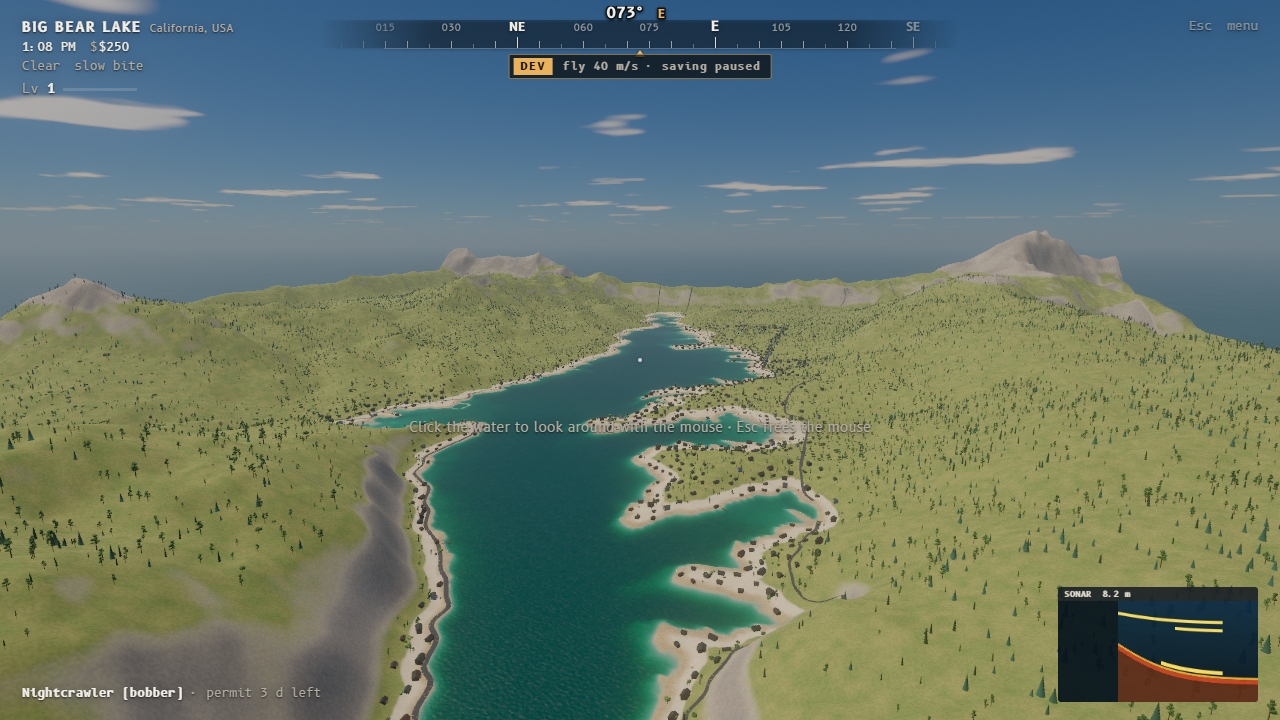
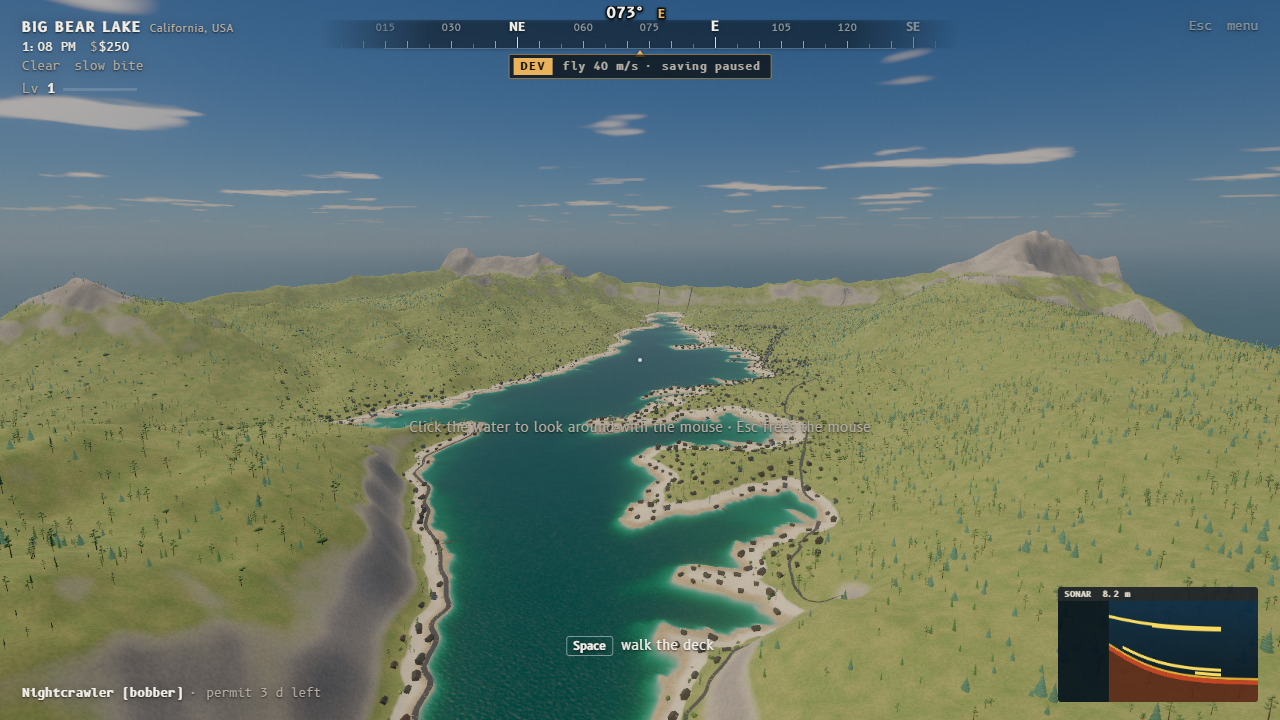
feat(bigbear): richer native trees and shrubs: forked-limb pines, tiered firs, cedars, oaks, junipers, manzanita, sage, yucca, willow

diff --git a/src/game/scenery.js b/src/game/scenery.js
@@ -56,6 +56,41 @@ function blade(bx, bz, ang, h, w, arch, c0, c1, c2, seg = 2) {
   return g.toNonIndexed();
 }
 
+// ---- organic tree parts: ragged skirts, bark and foliage gradients -------------------------------------
+// a drooping conifer tier: open cone, ragged rim that sags, dark inside to light tips
+function tier(r, h, y, rand, cBase, cTip, seg = 9, sag = 0.35) {
+  const g = new THREE.ConeGeometry(r, h, seg, 1, true), p = g.attributes.position, n = p.count, col = new Float32Array(n * 3), cb = new THREE.Color(cBase), ct = new THREE.Color(cTip), c = new THREE.Color();
+  const jit = []; for (let i = 0; i < seg + 1; i++) jit.push(1 + (rand() - 0.5) * 0.42);
+  for (let i = 0; i < n; i++) {
+    let x = p.getX(i), yy = p.getY(i), z = p.getZ(i); const t = Math.min(1, Math.max(0, (yy + h / 2) / h)), a = Math.atan2(z, x), j = jit[Math.floor(((a + Math.PI) / (Math.PI * 2)) * seg) % (seg + 1)];
+    const rim = 1 - Math.min(1, t * 2); x *= 1 + (j - 1) * rim; z *= 1 + (j - 1) * rim; yy -= rim * rim * sag * (0.4 + j * 0.6);
+    p.setXYZ(i, x, yy + y + h / 2, z);
+    c.copy(cb).lerp(ct, Math.pow(t, 0.8)).multiplyScalar(0.88 + rand() * 0.24); col.set([c.r, c.g, c.b], i * 3);
+  }
+  g.setAttribute('color', new THREE.BufferAttribute(col, 3)); g.deleteAttribute('uv'); g.computeVertexNormals();
+  { const q = g.attributes.normal; for (let i = 0; i < q.count; i++) { const nx = q.getX(i) * 0.6, ny = q.getY(i) * 0.6 + 0.55, nz = q.getZ(i) * 0.6, l = Math.hypot(nx, ny, nz) || 1; q.setXYZ(i, nx / l, ny / l, nz / l); } }   // soften: lean the normals up so the underside is not black
+  return g.toNonIndexed();
+}
+// a tapered trunk / limb with a bark gradient (dark at the base), optionally leaned
+function limb(r0, r1, len, rand, c0, c1, lean = [0, 0], base = [0, 0, 0], seg = 6) {
+  const g = new THREE.CylinderGeometry(r1, r0, len, seg, 3).translate(0, len / 2, 0), p = g.attributes.position, col = new Float32Array(p.count * 3), a = new THREE.Color(c0), b = new THREE.Color(c1), c = new THREE.Color();
+  for (let i = 0; i < p.count; i++) { const t = p.getY(i) / len; c.copy(a).lerp(b, t).multiplyScalar(0.85 + rand() * 0.3); col.set([c.r, c.g, c.b], i * 3); }
+  g.setAttribute('color', new THREE.BufferAttribute(col, 3)); g.deleteAttribute('uv');
+  g.rotateZ(lean[0]).rotateX(lean[1]).translate(base[0], base[1], base[2]);
+  return g.index ? g.toNonIndexed() : g;
+}
+// a foliage clump: flattened lumpy blob, dark underside and a lit top
+function clump(r, x, y, z, rand, cLow, cHigh, squash = 0.62, detail = 0) {
+  const g = blob(r, detail, rand, squash).toNonIndexed(), p = g.attributes.position, col = new Float32Array(p.count * 3), nn = new Float32Array(p.count * 3), lo = new THREE.Color(cLow), hi = new THREE.Color(cHigh), c = new THREE.Color();
+  for (let i = 0; i < p.count; i++) {
+    const px = p.getX(i), py = p.getY(i), pz = p.getZ(i), t = Math.min(1, Math.max(0, (py / (r * squash) + 1) / 2));
+    c.copy(lo).lerp(hi, t).multiplyScalar(0.9 + rand() * 0.2); col.set([c.r, c.g, c.b], i * 3);
+    const ny = py / Math.max(squash, 0.3) + r * 0.25, l = Math.hypot(px, ny, pz) || 1; nn[i * 3] = px / l; nn[i * 3 + 1] = ny / l; nn[i * 3 + 2] = pz / l;   // rounded, softly lit volume instead of flat facets
+  }
+  g.setAttribute('color', new THREE.BufferAttribute(col, 3)); g.setAttribute('normal', new THREE.BufferAttribute(nn, 3)); g.deleteAttribute('uv'); g.translate(x, y, z);
+  return g;
+}
+
 const CONIFERS = new Set(['jeffrey', 'whitefir', 'cedar', 'lodgepole']);
 const TREE_BUILDERS = {
   // tall arching water grass (sawgrass / maidencane): a fan of ribbons, olive at the root, green-yellow to tan at the tips
@@ -99,30 +134,6 @@ const TREE_BUILDERS = {
     }
     return mergeGeometries(parts);
   },
-  // San Bernardino Mountains forest (Big Bear): Jeffrey / ponderosa pine, white fir, incense cedar,
-  // lodgepole, quaking aspen, alder and maple by the water, black and canyon live oak
-  jeffrey(rand) {
-    const parts = [paint(new THREE.CylinderGeometry(0.22, 0.4, 12, 6).translate(0, 6, 0), 0x8a5a3c, 0.2, rand)];   // orange-brown plated bark
-    for (let i = 0; i < 6; i++) {
-      const y = 6 + i * 1.1 + rand() * 0.6, a = rand() * Math.PI * 2, r = 0.5 + (6 - i) * 0.18;
-      parts.push(paint(blob(1.3 + rand() * 0.6, 0, rand, 0.7).translate(Math.cos(a) * r, y, Math.sin(a) * r), i % 2 ? 0x41602e : 0x4a6a34, 0.3, rand));   // open tufted crown of long needles
-    }
-    parts.push(paint(blob(1.3, 0, rand, 0.8).translate(0, 12.6, 0), 0x4a6a34, 0.3, rand));
-    return mergeGeometries(parts);
-  },
-  whitefir(rand) {
-    const parts = [paint(new THREE.CylinderGeometry(0.2, 0.34, 3, 6).translate(0, 1.5, 0), 0x6a5a4a)];
-    for (let i = 0; i < 6; i++) {
-      const r = 2.5 - i * 0.37, y = 2.2 + i * 1.7;
-      parts.push(paint(new THREE.ConeGeometry(r, 3.2, 8).translate(0, y, 0), 0x35604e, 0.25, rand));   // dense, blue-green
-    }
-    return mergeGeometries(parts);
-  },
-  cedar(rand) {
-    const parts = [paint(new THREE.CylinderGeometry(0.2, 0.36, 3, 6).translate(0, 1.5, 0), 0x7a4a34)];
-    for (let i = 0; i < 4; i++) parts.push(paint(new THREE.ConeGeometry(1.5 - i * 0.2, 4.4, 7).translate(0, 3 + i * 2.3, 0), 0x2c4a2a, 0.25, rand));   // narrow dark column
-    return mergeGeometries(parts);
-  },
   lodgepole(rand) {
     const parts = [paint(new THREE.CylinderGeometry(0.12, 0.22, 11, 5).translate(0, 5.5, 0), 0x6a5a48)];
     for (let i = 0; i < 4; i++) parts.push(paint(new THREE.ConeGeometry(1.15 - i * 0.18, 2.8, 6).translate(0, 7 + i * 1.7, 0), 0x4c6a34, 0.3, rand));
@@ -138,27 +149,78 @@ const TREE_BUILDERS = {
     for (let i = 0; i < 3; i++) parts.push(paint(blob(2.1, 1, rand, 0.95).translate((rand() - 0.5) * 2, 5.4 + rand() * 1.2, (rand() - 0.5) * 2), i % 2 ? 0x4e7a30 : 0x5d8a34, 0.3, rand));
     return mergeGeometries(parts);
   },
+  // ---- San Bernardino Mountains natives (Big Bear): Jeffrey pine, white fir, incense cedar, black / canyon live oak,
+  // juniper, manzanita, scrub oak chaparral, sagebrush, Mojave yucca, willow -------------------------------------
+  // Jeffrey pine: tall bare plated-orange trunk, a few heavy limbs, open tufts of long blue-green needles
+  jeffrey(rand) {
+    const H = 11 + rand() * 4, parts = [limb(0.42, 0.14, H, rand, 0x5a3a28, 0xa86a3e, [(rand() - 0.5) * 0.06, 0])];
+    const nb = 6;
+    for (let i = 0; i < nb; i++) {
+      const t = i / nb, y = H * (0.5 + t * 0.48), a = rand() * 6.283, len = 1.6 * (1.15 - t * 0.7) + rand() * 0.6, cx = Math.cos(a) * len, cz = Math.sin(a) * len;
+      for (let k = 0; k < 1; k++) parts.push(clump(1.35 - t * 0.35 + rand() * 0.4, cx, y + 0.25 + rand() * 0.5, cz, rand, 0x3a5a3a, 0x7a9a58, 0.5));
+    }
+    parts.push(clump(1.1, 0, H + 0.35, 0, rand, 0x40623e, 0x86a460, 0.9));
+    return mergeGeometries(parts);
+  },
+  // white fir: dense regular tiers of blue-green boughs, ragged skirts, grey bark
+  whitefir(rand) {
+    const parts = [limb(0.3, 0.1, 5, rand, 0x4a4238, 0x6a6258)], n = 9;
+    for (let i = 0; i < n; i++) {
+      const t = i / (n - 1), r = 2.7 * (1 - t) ** 0.9 + 0.35, hh = 2.3 - t * 0.7;
+      parts.push(tier(r, hh, 1.6 + i * 1.28, rand, 0x3a6a52, 0x82ac90, 9, 0.55));
+    }
+    parts.push(tier(0.3, 1.4, 1.6 + n * 1.28, rand, 0x4a7a62, 0x92b8a0, 6, 0.1));
+    return mergeGeometries(parts);
+  },
+  // incense cedar: a narrow flame-shaped column, flat sprays, rusty fibrous trunk
+  cedar(rand) {
+    const parts = [limb(0.38, 0.12, 3, rand, 0x5a2e22, 0x7a4a34)], n = 7;
+    for (let i = 0; i < n; i++) { const t = i / (n - 1), r = 1.55 * (1 - t * 0.78) + 0.2; parts.push(tier(r, 2.3 - t * 0.6, 1.4 + i * 1.55, rand, 0x2e5a30, 0x6a9a50, 8, 0.35)); }
+    return mergeGeometries(parts);
+  },
+  // black oak / canyon live oak: short fork, wide domed crown of dense clumps
   oak(rand) {
-    const parts = [paint(new THREE.CylinderGeometry(0.3, 0.48, 3.2, 6).translate(0, 1.6, 0), 0x4a3c2e)];
-    for (let i = 0; i < 4; i++) { const a = (i / 4) * Math.PI * 2 + rand(); parts.push(paint(blob(2.3, 1, rand, 0.7).translate(Math.cos(a) * 1.7, 4 + rand() * 0.8, Math.sin(a) * 1.7), i % 2 ? 0x37552a : 0x44632e, 0.3, rand)); }
+    const parts = [limb(0.42, 0.28, 2.4, rand, 0x2e241c, 0x4a3c30), limb(0.22, 0.12, 2.4, rand, 0x3a2e24, 0x54463a, [0.55, 0.1], [0, 1.9, 0]), limb(0.22, 0.12, 2.4, rand, 0x3a2e24, 0x54463a, [-0.5, -0.25], [0, 1.9, 0]), limb(0.2, 0.1, 2.2, rand, 0x3a2e24, 0x54463a, [0.05, -0.6], [0, 1.9, 0])];
+    for (let i = 0; i < 6; i++) { const a = (i / 6) * 6.283 + rand(), r = 1.2 + rand() * 1.5; parts.push(clump(1.9 + rand() * 0.9, Math.cos(a) * r, 3.9 + rand() * 1.1, Math.sin(a) * r, rand, 0x233d22, 0x5a7c36, 0.68)); }
+    parts.push(clump(2.2, 0, 5.4, 0, rand, 0x2c4a28, 0x6a8c3e, 0.7));
     return mergeGeometries(parts);
   },
-  // California / Utah juniper and pinyon of the dry east side: a squat, shaggy, grey-green crown on a twisted trunk
+  // California / Utah juniper: a twisted shaggy trunk and bare limbs, grey-green scale foliage in tufts
   juniper(rand) {
-    const parts = [paint(new THREE.CylinderGeometry(0.22, 0.4, 2.2, 5).translate(0, 1.1, 0), 0x6a4e3a)];
-    for (let i = 0; i < 3; i++) { const a = rand() * 6.28; parts.push(paint(blob(1.5 + rand() * 0.5, 1, rand, 0.85).translate(Math.cos(a) * 0.8, 2.6 + rand() * 1.2, Math.sin(a) * 0.8), i % 2 ? 0x5a6a42 : 0x66744a, 0.35, rand)); }
+    const parts = [limb(0.4, 0.2, 2.6, rand, 0x4a3a2c, 0x7a5e44, [0.12, 0.05]), limb(0.2, 0.1, 2.2, rand, 0x5a4636, 0x84684c, [-0.5, 0.2], [0, 1.6, 0], 5), limb(0.18, 0.1, 2, rand, 0x5a4636, 0x84684c, [0.45, -0.3], [0, 1.4, 0], 5)];
+    for (let i = 0; i < 5; i++) { const a = rand() * 6.283, r = 0.4 + rand() * 1.1; parts.push(clump(1.1 + rand() * 0.6, Math.cos(a) * r, 2.6 + rand() * 1.5, Math.sin(a) * r, rand, 0x43553a, 0x7f9166, 0.8)); }
     return mergeGeometries(parts);
   },
-  // chaparral: manzanita / scrub oak / ceanothus, a low tough mound of grey-green and red-brown
+  // scrub oak / ceanothus chaparral: a dense domed mound
   chaparral(rand) {
     const parts = [];
-    for (let i = 0; i < 4; i++) { const a = rand() * 6.28, r = rand() * 0.8; parts.push(paint(blob(0.9 + rand() * 0.5, 1, rand, 0.75).translate(Math.cos(a) * r, 0.7 + rand() * 0.4, Math.sin(a) * r), [0x62703f, 0x77743f, 0x5a6638, 0x84603a][i % 4], 0.35, rand)); }
+    for (let i = 0; i < 6; i++) { const a = rand() * 6.283, r = rand() * 0.9; parts.push(clump(0.75 + rand() * 0.55, Math.cos(a) * r, 0.5 + rand() * 0.55, Math.sin(a) * r, rand, 0x40502c, [0x7e8a4a, 0x8a9050, 0x6a7c40][i % 3], 0.8)); }
     return mergeGeometries(parts);
   },
-  // willow / cottonwood along the water: a loose, pale-green weeping crown
+  // manzanita: smooth mahogany limbs, glossy olive leaf clusters, an occasional pink blossom head
+  manzanita(rand) {
+    const parts = [];
+    for (let i = 0; i < 5; i++) { const a = (i / 5) * 6.283 + rand() * 0.5, lean = 0.35 + rand() * 0.45; parts.push(limb(0.07, 0.035, 1.7 + rand() * 0.8, rand, 0x5a1e14, 0x8a3a24, [-Math.cos(a) * lean, Math.sin(a) * lean], [0, 0, 0], 4)); }
+    for (let i = 0; i < 6; i++) { const a = rand() * 6.283, r = 0.5 + rand() * 0.9; parts.push(clump(0.55 + rand() * 0.35, Math.cos(a) * r, 1.0 + rand() * 0.9, Math.sin(a) * r, rand, 0x3a5030, [0x7a9448, 0x8aa050][i % 2], 0.75)); }
+    if (rand() < 0.35) parts.push(clump(0.28, rand() - 0.5, 1.9, rand() - 0.5, rand, 0xd9b0b0, 0xf2dede, 0.9, 0));
+    return mergeGeometries(parts);
+  },
+  // sagebrush / white sage: a low silvery-grey mound
+  sage(rand) {
+    const parts = [];
+    for (let i = 0; i < 5; i++) { const a = rand() * 6.283, r = rand() * 0.6; parts.push(clump(0.4 + rand() * 0.3, Math.cos(a) * r, 0.28 + rand() * 0.3, Math.sin(a) * r, rand, 0x707a64, [0xaab29c, 0x9ca894, 0xb4baa8][i % 3], 0.7)); }
+    return mergeGeometries(parts);
+  },
+  // Mojave yucca of the dry east side: a rosette of stiff pale blades on a short trunk
+  yucca(rand) {
+    const top = 1.2 + rand() * 0.8, parts = [limb(0.16, 0.1, top, rand, 0x5a4a34, 0x8a7656, [0.05, 0], [0, 0, 0], 5)];
+    for (let i = 0; i < 18; i++) { const a = (i / 18) * 6.283 + rand() * 0.3; parts.push(blade(Math.cos(a) * 0.05, Math.sin(a) * 0.05, a, 0.95 + rand() * 0.5, 0.07, 0.35 + rand() * 0.25, 0x5a6a3a, 0x8a9a5a, 0xc0b078, 2).translate(0, top, 0)); }
+    return mergeGeometries(parts);
+  },
+  // willow / cottonwood by the water: a forked trunk under a loose crown with hanging fronds
   willow(rand) {
-    const parts = [paint(new THREE.CylinderGeometry(0.16, 0.3, 3.6, 5).translate(0, 1.8, 0), 0x6a5e46)];
-    for (let i = 0; i < 4; i++) { const a = rand() * 6.28; parts.push(paint(blob(1.8 + rand() * 0.4, 1, rand, 0.85).translate(Math.cos(a) * 1.4, 3.6 + rand() * 1.0, Math.sin(a) * 1.4), i % 2 ? 0x7a9a46 : 0x8aa64e, 0.3, rand)); }
+    const parts = [limb(0.3, 0.16, 3.6, rand, 0x4a4030, 0x6a604a, [0.15, 0]), limb(0.16, 0.08, 2.6, rand, 0x5a5040, 0x7a6e56, [-0.6, 0.1], [0, 2.8, 0], 5)];
+    for (let i = 0; i < 5; i++) { const a = rand() * 6.283, r = 0.9 + rand() * 1.1; parts.push(clump(1.5 + rand() * 0.5, Math.cos(a) * r, 4.3 + rand() * 1.0, Math.sin(a) * r, rand, 0x5a7a38, 0xa0bc58, 0.7)); }
     return mergeGeometries(parts);
   },
   birch(rand) {
@@ -312,6 +374,7 @@ export function buildScenery(loc, heightAt, patchProp) {
     const variants = Array.from({ length: loose ? 6 : 3 }, () => TREE_BUILDERS[type](rand));
     const mat = new THREE.MeshStandardMaterial({ vertexColors: true, roughness: 0.9, side: type === 'palm' || type === 'reed' || mat_ ? THREE.DoubleSide : THREE.FrontSide });
     patchProp(mat);
+    if (loose && !mat_) mat.emissive.setRGB(0.012, 0.022, 0.012);   // sky-lit green in the shade: tiers shadowed by the tier above are not pure black
     if (type !== 'lily' && mat_) swayMaterial(mat);
     const spots = [];
     for (let i = 0; i < count * (mat_ ? 5 : 12) && spots.length < count; i++) {
@@ -321,7 +384,7 @@ export function buildScenery(loc, heightAt, patchProp) {
       if (h < minH || h > maxH) continue;
       if (only && !only(x, z, h)) continue;   // optional place rule (aspect, side of the lake)
       const slope = Math.abs(heightAt(x + 4, z) - h) + Math.abs(heightAt(x, z + 4) - h);
-      if (!mat_ && slope > (type === 'pine' || type === 'cactus' || type === 'juniper' || type === 'chaparral' || type === 'oak' || CONIFERS.has(type) ? 3.5 : type === 'snag' ? 9 : 2)) continue;
+      if (!mat_ && slope > (type === 'pine' || type === 'cactus' || type === 'juniper' || type === 'chaparral' || type === 'manzanita' || type === 'sage' || type === 'yucca' || type === 'oak' || CONIFERS.has(type) ? 3.5 : type === 'snag' ? 9 : 2)) continue;
       if (Math.hypot(x, z) < (type === 'snag' ? 90 : 40)) continue;
       if (type === 'snag' && fbm(x * 0.005, z * 0.005, 3, 33) < 0.08) continue;   // drowned groves, not an even scatter
       // plants grow in stands with gaps between, not an even scatter: accept by a density field

diff --git a/src/game/locations.js b/src/game/locations.js
@@ -393,7 +393,8 @@ export const LOCATIONS = {
     trees: [
       ['jeffrey', 9000, 1.5, 420, 2300], ['whitefir', 4200, 25, 520, 2300, (x, z, h) => z > -150 || h > 120], ['cedar', 1400, 4, 260, 2300, (x, z) => z > -100],
       ['lodgepole', 1400, 220, 560, 2300], ['aspen', 260, 1.2, 40, 2300], ['alder', 500, 0.6, 9, 2300], ['willow', 380, 0.5, 6, 2300],
-      ['oak', 1700, 2, 200, 2300, (x, z, h) => z < 100 || h < 40], ['juniper', 2200, 1.5, 190, 2300, (x, z) => x > -200 && z < 500], ['chaparral', 4200, 1.2, 230, 2300, (x, z, h) => (z < -50 || x > 300) && h < 230],
+      ['oak', 1700, 2, 200, 2300, (x, z, h) => z < 100 || h < 40], ['juniper', 2200, 1.5, 190, 2300, (x, z) => x > -200 && z < 500], ['chaparral', 2400, 1.2, 230, 2300, (x, z, h) => (z < -50 || x > 300) && h < 230], ['manzanita', 1800, 4, 260, 2300, (x, z, h) => z < 200 && h > 5],
+      ['sage', 2400, 1, 90, 2300, (x, z, h) => x > -400 && h < 90], ['yucca', 420, 1, 70, 2300, (x) => x > 500],
     ],
     landings: BB_LANDINGS,
     height: bbHeight,

diff --git a/tools/bigbear/shots.py b/tools/bigbear/shots.py
@@ -17,6 +17,12 @@ VIEWS = {
  'boulder_metcalf_bays': (-900, 120, 150, -900, 0, 520),
  'narrow_east_causeway': (1500, 80, -100, 1950, 0, -300),
  'north_shore_slopes': (-300, 25, -150, -300, 90, -800),
+ 'trees_pine_fir_south': (-250, -1, 520, -250, 18, 760),
+ 'trees_oak_juniper_north': (-600, -1, -820, -600, 12, -1050),
+ 'trees_east_dry': (1500, -1, 200, 1700, 8, 400),
+ 'trees_close_a': (-300, -1, 560, -300, 8, 600),
+ 'trees_close_b': (-100, -1, 640, -60, 8, 680),
+ 'trees_close_c': (-520, -1, 520, -480, 8, 560),
  'south_slope_forest': (-300, 20, 150, -300, 80, 700),
 }
 only = [s for s in a.only.split(',') if s]
@@ -32,6 +38,7 @@ with sync_playwright() as p:
     if not page.evaluate('game.dev.fly'): page.evaluate('game.dev.toggleFly(true)')
     for name, (x, y, z, lx, ly, lz) in VIEWS.items():
         if only and name not in only: continue
+        if y == -1: y = page.evaluate(f'game.heightAt({x},{z}) + 3')
         yaw = math.atan2(-(lx - x), -(lz - z)); dist = math.hypot(lx - x, lz - z); pitch = math.atan2(ly - y, dist)
         page.evaluate(f"(() => {{ const d = game.dev; d.pos.set({x},{y},{z}); d.yaw = {yaw}; d.pitch = {pitch}; d.vel.set(0,0,0); }})()")
         page.evaluate("window.__step(45, 0.033)"); time.sleep(0.5)
